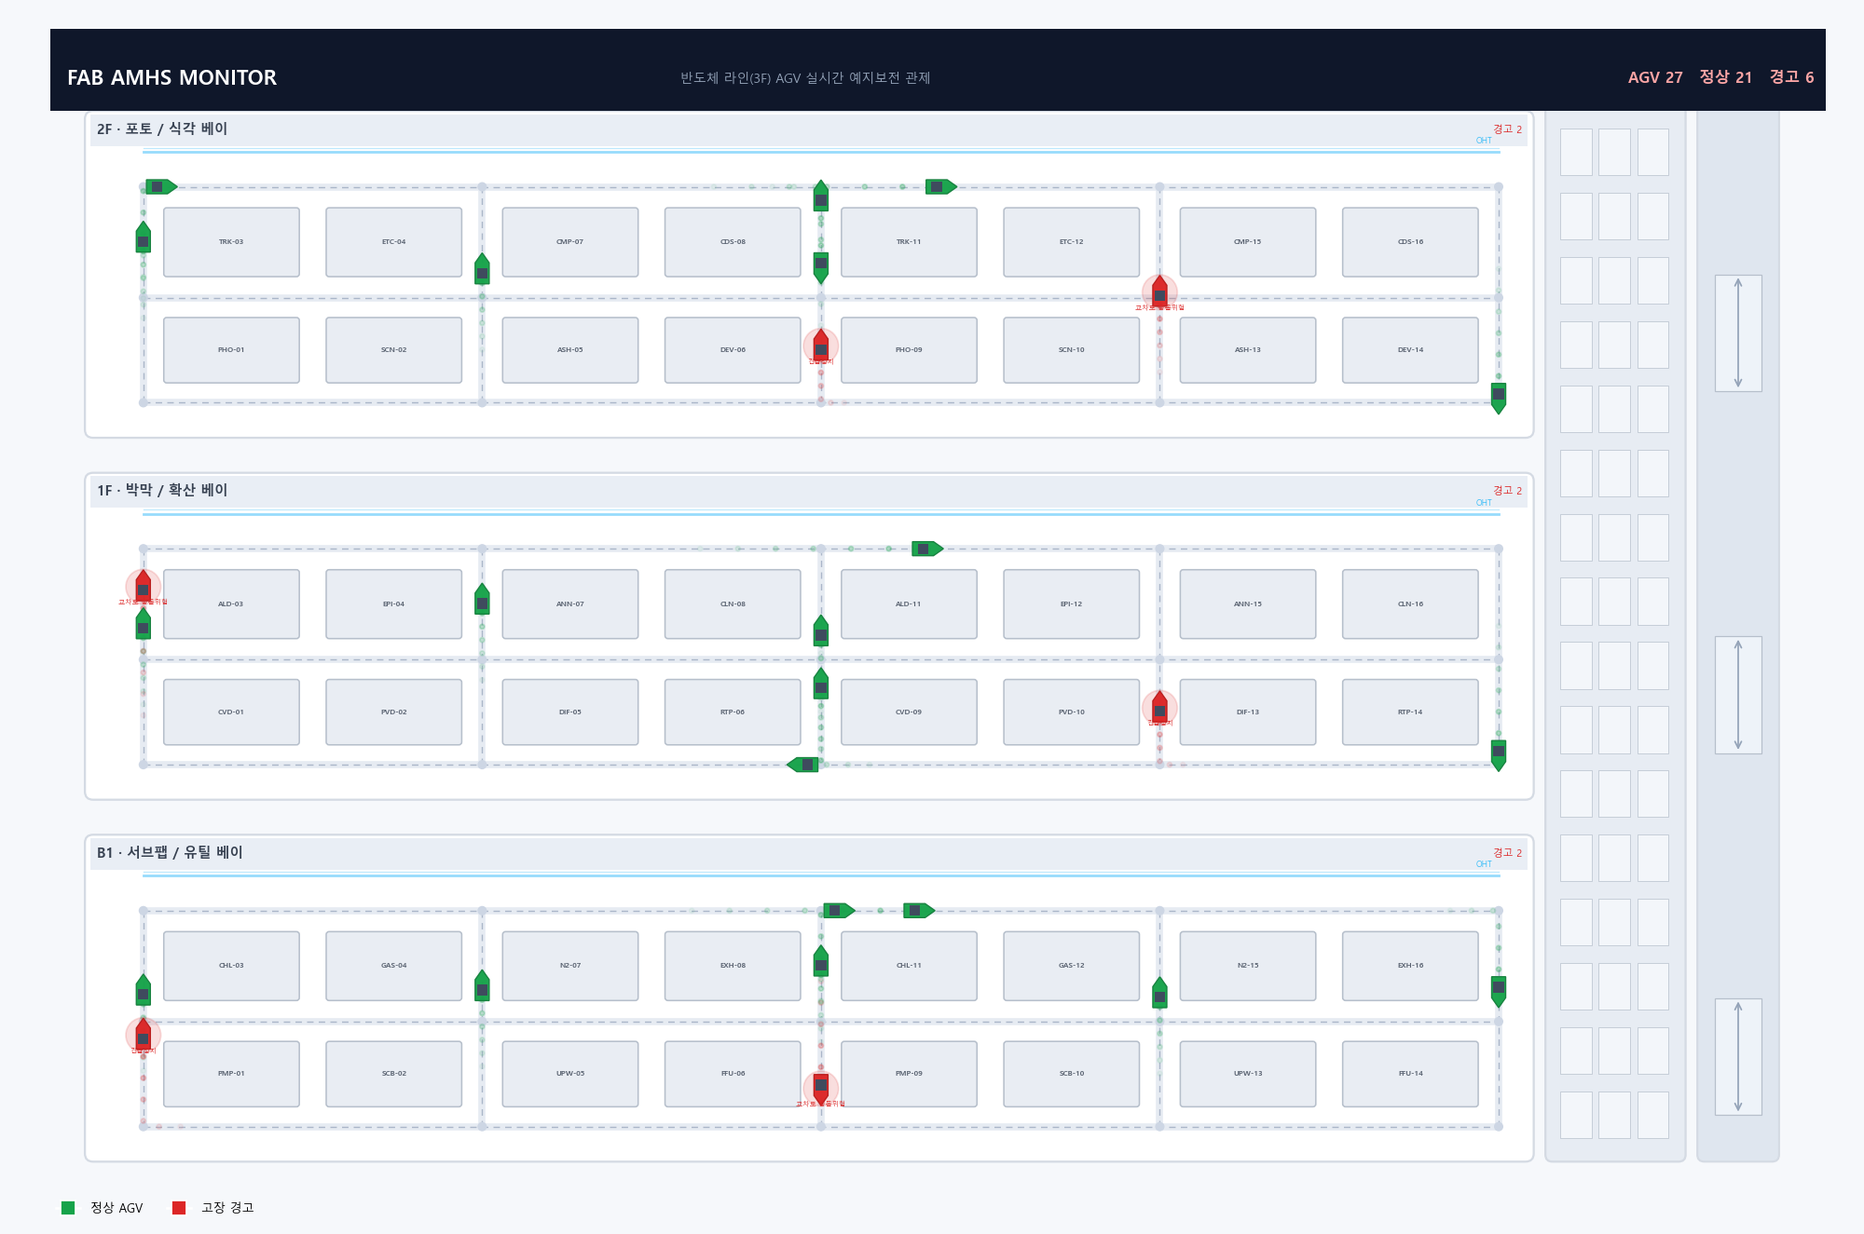
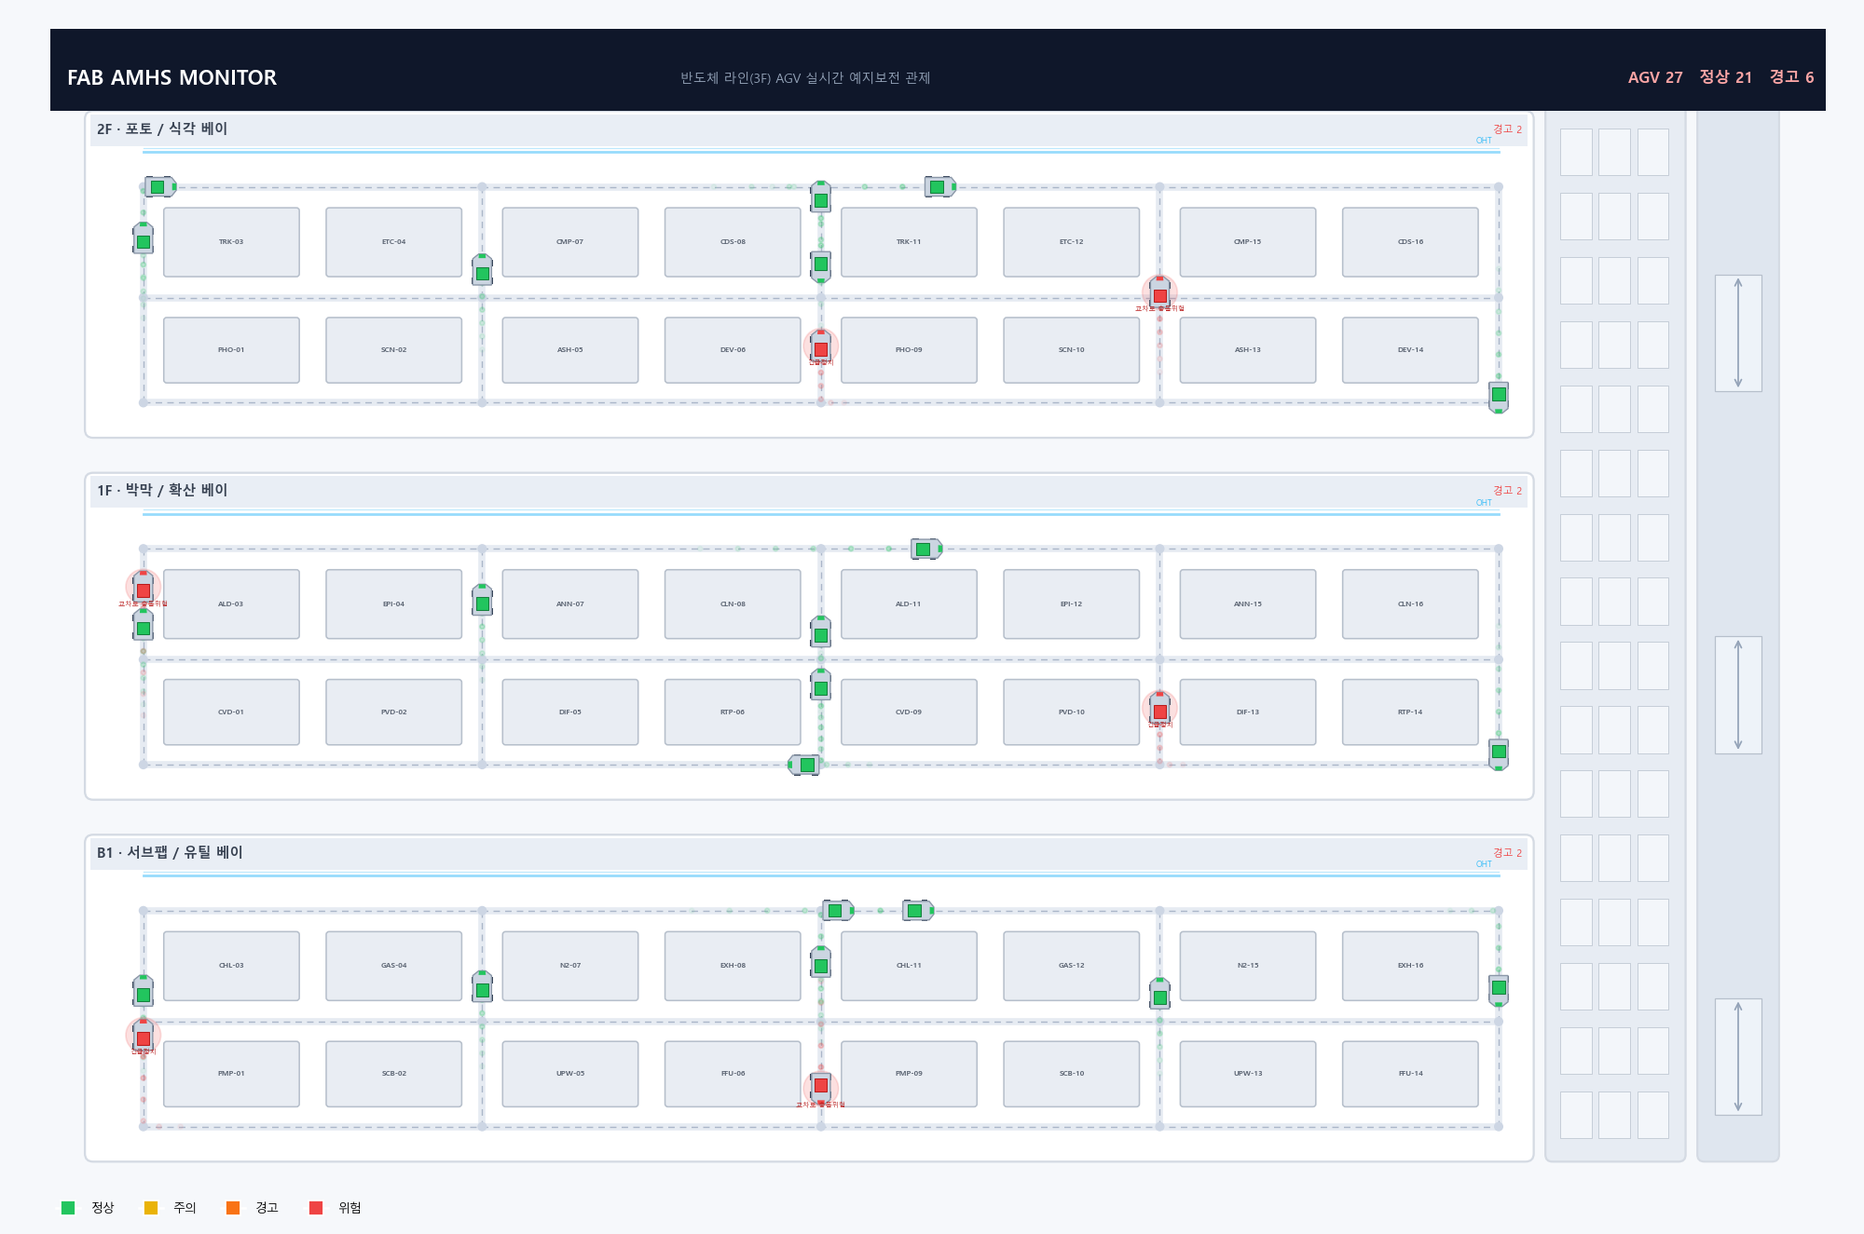
viz: 실제 AGV 로봇·실제 팹 형상으로 3D/2D 리얼리즘 완성
- 3D AGV: 화살표 콘 → 무인반송차 형상(대차+바퀴4+반투명 FOUP 포드
  +전방 진행등+상태 경광등). 섀시는 금속 회색, 상태색은 경광등/포드에
- 3D 설비: 와이어프레임 → 솔리드 팹 장비(플린스 받침+베이별 색 변주
  +상단 EFEM/팬필터 유닛+로드포트)
- 3D 트랙: 얇은 선 → 바닥 페인트 주행 레인+중앙 가이드라인
- 2D 도면(make_floorplan): 오각형 카트 → 탑다운 실제 AGV 글리프
  +conf 기반 4단계 심각도 색(3D와 동일 컨셉), 범례 4단계 통일
- README 3D GIF·2D PNG/GIF 전부 재생성, 테스트 14종 통과

diff --git a/src/static/twin.html b/src/static/twin.html
@@ -235,31 +235,43 @@ function buildLayout(L) {
       new THREE.MeshStandardMaterial({ color:0x141d36, transparent:true, opacity:0.92, roughness:0.9 }));
     slab.position.set(((x0+x1)/2 - CX)*S, ey, ((zA+zC)/2 - fl.y0 - CZ_OFF)*S);
     scene.add(slab);
-    // tools (equipment) — 설비별 높이 변주 + 로드포트(FOUP) 디테일
+    // 공정 설비 — 베이스 플린스 + 본체(베이별 색 변주·높이 변주) + 상단 서비스 유닛 + 로드포트(FOUP)
+    const BAYCOL = [0x2f3c66, 0x323f5c, 0x384166, 0x2c3a58, 0x3a3f60];
     fl.tools.forEach(t => {
-      const th = 9 + (t.label.charCodeAt(t.label.length - 1) % 4) * 1.6;   // 높이 변주(균일 격자 탈피)
-      const m = new THREE.Mesh(
-        new THREE.BoxGeometry(t.w*S, th, t.h*S),
-        new THREE.MeshStandardMaterial({ color:0x33406e, roughness:0.55, metalness:0.28 }));
-      m.position.set(wx(t.cx), ey + th/2 + 0.9, wz(t.cy, fl.y0));
-      scene.add(m);
+      const th = 9 + (t.label.charCodeAt(t.label.length - 1) % 4) * 1.8;    // 높이 변주(균일 격자 탈피)
+      const bc = BAYCOL[t.label.charCodeAt(0) % BAYCOL.length];             // 베이별 색 변주
+      const cx3 = wx(t.cx), cz3 = wz(t.cy, fl.y0);
+      const base = new THREE.Mesh(new THREE.BoxGeometry(t.w*S+2, 1.6, t.h*S+2),  // 바닥 받침
+        new THREE.MeshStandardMaterial({ color:0x1b2440, roughness:0.9 }));
+      base.position.set(cx3, ey + 1.3, cz3); scene.add(base);
+      const m = new THREE.Mesh(new THREE.BoxGeometry(t.w*S, th, t.h*S),          // 본체
+        new THREE.MeshStandardMaterial({ color:bc, roughness:0.5, metalness:0.32 }));
+      m.position.set(cx3, ey + th/2 + 1.6, cz3); scene.add(m);
       const edge = new THREE.LineSegments(new THREE.EdgesGeometry(m.geometry),
         new THREE.LineBasicMaterial({ color:0x5a6ea8 }));
       edge.position.copy(m.position); scene.add(edge);
-      // 로드포트: 설비 앞면(관람자 방향) 작은 큐브 2개
-      for (const s of [-0.26, 0.26]) {
-        const lp = new THREE.Mesh(new THREE.BoxGeometry(Math.max(t.w*S*0.16, 2), 2.4, 2.2),
-          new THREE.MeshStandardMaterial({ color:0x4a5a8e, roughness:0.5 }));
-        lp.position.set(wx(t.cx) + t.w*S*s, ey + 2.1, wz(t.cy, fl.y0) - t.h*S*0.5 - 1.1);
+      const top = new THREE.Mesh(new THREE.BoxGeometry(t.w*S*0.5, 3, t.h*S*0.5), // 상단 유닛(EFEM/팬필터)
+        new THREE.MeshStandardMaterial({ color:0x46557f, roughness:0.6, metalness:0.2 }));
+      top.position.set(cx3, ey + th + 1.6 + 1.5, cz3); scene.add(top);
+      for (const s of [-0.26, 0.26]) {                                          // 로드포트(FOUP) 앞면 큐브 2개
+        const lp = new THREE.Mesh(new THREE.BoxGeometry(Math.max(t.w*S*0.16, 2), 2.6, 2.2),
+          new THREE.MeshStandardMaterial({ color:0x59699c, roughness:0.45, metalness:0.15 }));
+        lp.position.set(cx3 + t.w*S*s, ey + 2.9, cz3 - t.h*S*0.5 - 1.1);
         scene.add(lp);
       }
     });
-    // tracks
+    // AGV 주행 레인(바닥 페인트 라인) + 중앙 가이드라인
     fl.tracks.forEach(([ax,ay,bx,by]) => {
+      const x1=wx(ax), z1=wz(ay,fl.y0), x2=wx(bx), z2=wz(by,fl.y0);
+      const len=Math.hypot(x2-x1, z2-z1); if (len < 0.5) return;
+      const lane = new THREE.Mesh(new THREE.BoxGeometry(len, 0.3, 2.6),
+        new THREE.MeshStandardMaterial({ color:0x28406e, roughness:0.85, emissive:0x0a1830, emissiveIntensity:0.3 }));
+      lane.position.set((x1+x2)/2, ey+0.8, (z1+z2)/2);
+      lane.rotation.y = -Math.atan2(z2-z1, x2-x1);
+      scene.add(lane);
       const g = new THREE.BufferGeometry().setFromPoints([
-        new THREE.Vector3(wx(ax), ey+0.9, wz(ay, fl.y0)),
-        new THREE.Vector3(wx(bx), ey+0.9, wz(by, fl.y0))]);
-      scene.add(new THREE.Line(g, new THREE.LineBasicMaterial({ color:0x2a3a66 })));
+        new THREE.Vector3(x1, ey+1.0, z1), new THREE.Vector3(x2, ey+1.0, z2)]);
+      scene.add(new THREE.Line(g, new THREE.LineBasicMaterial({ color:0x5f7ec2 })));
     });
     // OHT 오버헤드 레일(천장 반송)
     (fl.oht || []).forEach(([ax, ay, bx, by]) => {
@@ -319,21 +331,42 @@ function makeLabel(text, x, y, z) {
   return sp;
 }
 
+// 실제 팹 AGV(무인반송차) 형상: 하부 대차 + 바퀴 4 + 상단 FOUP 포드 + 상태 경광등(안돈)
 function agvFor(a) {
   if (agvMesh[a.id]) return agvMesh[a.id];
-  const body = new THREE.Mesh(new THREE.ConeGeometry(3.4, 9, 5),
-    new THREE.MeshStandardMaterial({ color:OK.clone(), emissive:0x000000 }));
-  body.rotation.x = Math.PI/2;          // point along +Z, we rotate group by heading
-  const ring = new THREE.Mesh(new THREE.TorusGeometry(6.5, 0.7, 8, 28),
+  const grp = new THREE.Group();
+  const steel = new THREE.MeshStandardMaterial({ color:0xc3ccdf, roughness:0.5, metalness:0.35 });
+  const dark  = new THREE.MeshStandardMaterial({ color:0x252d45, roughness:0.75, metalness:0.2 });
+  const skirt = new THREE.Mesh(new THREE.BoxGeometry(7.6, 1.6, 10.6), dark);   // 하부 대차
+  skirt.position.y = 1.0; grp.add(skirt);
+  const chassis = new THREE.Mesh(new THREE.BoxGeometry(7.0, 2.6, 9.8), steel); // 본체 섀시
+  chassis.position.y = 3.0; grp.add(chassis);
+  const wheelGeo = new THREE.CylinderGeometry(1.1, 1.1, 0.9, 14);              // 바퀴 4개
+  const wheelMat = new THREE.MeshStandardMaterial({ color:0x0e121c, roughness:0.9 });
+  for (const sx of [-3.5, 3.5]) for (const sz of [-3.2, 3.2]) {
+    const w = new THREE.Mesh(wheelGeo, wheelMat);
+    w.rotation.z = Math.PI/2; w.position.set(sx, 1.05, sz); grp.add(w);
+  }
+  const foup = new THREE.Mesh(new THREE.BoxGeometry(5.6, 4.4, 5.6),           // 상단 반송 FOUP 포드
+    new THREE.MeshStandardMaterial({ color:0x9fb3d6, roughness:0.3, metalness:0.15, transparent:true, opacity:0.92 }));
+  foup.position.y = 6.6; grp.add(foup);
+  const lid = new THREE.Mesh(new THREE.BoxGeometry(5.8, 0.8, 5.8), dark);      // 포드 상단 커버
+  lid.position.y = 9.2; grp.add(lid);
+  const head = new THREE.Mesh(new THREE.BoxGeometry(4.2, 0.9, 0.7),           // 전방 진행등(+Z가 앞)
+    new THREE.MeshStandardMaterial({ color:0x22c55e, emissive:0x22c55e, emissiveIntensity:0.5 }));
+  head.position.set(0, 3.2, 5.0); grp.add(head);
+  const beacon = new THREE.Mesh(new THREE.CylinderGeometry(0.95, 0.95, 2.6, 14),  // 상단 상태 경광등(안돈)
+    new THREE.MeshStandardMaterial({ color:0x22c55e, emissive:0x22c55e, emissiveIntensity:0.7, transparent:true, opacity:0.95 }));
+  beacon.position.y = 10.8; grp.add(beacon);
+  const ring = new THREE.Mesh(new THREE.TorusGeometry(6.8, 0.7, 8, 30),       // 바닥 경고 헤일로
     new THREE.MeshBasicMaterial({ color:0xff3b3b, transparent:true, opacity:0.9 }));
-  ring.rotation.x = Math.PI/2; ring.position.y = -4.5; ring.visible = false;
-  const beam = new THREE.Mesh(new THREE.CylinderGeometry(0.5, 0.5, 70, 8),
-    new THREE.MeshBasicMaterial({ color:0xff5a5a, transparent:true, opacity:0.26 }));
-  beam.position.y = 33; beam.visible = false;
-  const grp = new THREE.Group(); grp.add(body); grp.add(ring); grp.add(beam);
+  ring.rotation.x = Math.PI/2; ring.position.y = 0.5; ring.visible = false; grp.add(ring);
+  const beam = new THREE.Mesh(new THREE.CylinderGeometry(0.5, 0.5, 70, 8),    // 층 관통 경고 빔
+    new THREE.MeshBasicMaterial({ color:0xff5a5a, transparent:true, opacity:0.24 }));
+  beam.position.y = 36; beam.visible = false; grp.add(beam);
   grp.userData = { agv:true, id:a.id };
   agvGroup.add(grp);
-  const rec = { mesh:grp, body, ring, beam, target:{x:0,y:0,z:0,ang:0} };
+  const rec = { mesh:grp, beacon, head, foup, ring, beam, target:{x:0,y:0,z:0,ang:0} };
   agvMesh[a.id] = rec; return rec;
 }
 
@@ -359,13 +392,19 @@ function applyState(st) {
     seen.add(a.id);
     const rec = agvFor(a);
     const y0 = FLOOR_Y0[a.floor] ?? 0;
-    rec.target = { x: wx(a.x), y: floorY(a.floor) + 6, z: wz(a.y, y0), ang: a.ang };
+    rec.target = { x: wx(a.x), y: floorY(a.floor) + 1.3, z: wz(a.y, y0), ang: a.ang };
     rec.data = a;
     const warn = a.status === 'warn';
     const hex = warn ? (LVLCOL[a.level] ?? 0xef4444) : 0x22c55e;    // 심각도별 색
-    rec.body.material.color.setHex(hex);
-    rec.body.material.emissive.setHex(warn ? hex : 0x000000);
-    rec.body.material.emissiveIntensity = warn ? 0.75 : 0;
+    // 섀시는 항상 금속 회색(실제 로봇) — 상태색은 경광등·진행등·(원거리 식별용) FOUP 틴트에
+    rec.beacon.material.color.setHex(hex);
+    rec.beacon.material.emissive.setHex(hex);
+    rec.beacon.material.emissiveIntensity = warn ? 0.95 : 0.55;
+    rec.head.material.color.setHex(hex);
+    rec.head.material.emissive.setHex(hex);
+    rec.foup.material.color.setHex(warn ? hex : 0x9fb3d6);
+    rec.foup.material.emissive.setHex(warn ? hex : 0x000000);
+    rec.foup.material.emissiveIntensity = warn ? 0.28 : 0;
     // 링·빔(층 관통 경고)은 심각(경고·위험)만 — 주의는 색만 → '빨강 벽' 방지
     const severe = a.level === '경고' || a.level === '위험';
     rec.ring.visible = severe; rec.beam.visible = severe;
@@ -518,10 +557,10 @@ function animate() {
     const r = agvMesh[id], t = r.target, p = r.mesh.position;
     p.x += (t.x - p.x) * k; p.y += (t.y - p.y) * k; p.z += (t.z - p.z) * k;
     r.mesh.rotation.y = -t.ang * Math.PI/180;
-    if (r.ring.visible) {                          // 이상 설비 하이라이트 맥동
+    if (r.ring.visible) {                          // 이상 설비 하이라이트 맥동(경광등 점멸)
       r.ring.scale.setScalar(1 + pulse * 0.5);
       r.ring.material.opacity = 0.35 + pulse * 0.6;
-      r.body.material.emissiveIntensity = 0.5 + pulse * 0.9;
+      r.beacon.material.emissiveIntensity = 0.6 + pulse * 0.9;
     }
   }
   if (focus) {                                     // 최우선 경고로 카메라 자동 이동

diff --git a/src/make_floorplan.py b/src/make_floorplan.py
@@ -26,14 +26,25 @@ DATA, ASSETS = "../data/processed", "../assets"
 PAGE, PANEL, PHEAD, PEC = "#f6f8fb", "#ffffff", "#e9eef5", "#d4dae3"
 TOOL_FC, TOOL_EC, TLAB = "#e9edf3", "#b6bfcb", "#5b6472"
 TRKBAND, RAIL, OHT = "#e6ebf2", "#aab6c9", "#7dd3fc"
-GREEN, GREEN_E, RED, RED_E, FOUP = "#16a34a", "#15803d", "#dc2626", "#b91c1c", "#3f4b5e"
 HEAD_BG = "#0f172a"
+# AGV 섀시(금속 회색) — 상태색은 FOUP 포드·진행등·헤일로에 (3D 트윈과 동일 컨셉)
+STEEL_FC, STEEL_EC, WHEEL = "#cbd5e1", "#8b97a8", "#334155"
+# 진단 신뢰도(conf) 기반 4단계 심각도 색 (realtime_server.alert_level 과 동일 경계)
+LV = {"정상": ("#22c55e", "#15803d"), "주의": ("#eab308", "#a16207"),
+      "경고": ("#f97316", "#c2410c"), "위험": ("#ef4444", "#b91c1c")}
 KOR = {"E-ENV-C": "교차로 충돌위험", "E-ENV-O": "경로 장애물", "E-INF-A": "도어 연동",
        "E-INF-E": "층간리프트 연동", "E-RBT-B": "배터리 저하", "E-RBT-E": "긴급정지",
        "E-RBT-N": "통신 끊김", "E-RBT-S": "센서 이상", "정상": "정상"}
 W, H = FL.CANVAS["w"], FL.CANVAS["h"]
-CART = [(-2.4, -1.2), (1.2, -1.2), (2.9, 0), (1.2, 1.2), (-2.4, 1.2)]
-FBOX = [(-1.5, -0.9), (0.3, -0.9), (0.3, 0.9), (-1.5, 0.9)]
+# 탑다운 실제 AGV 형상(+x = 진행방향): 섀시 + 바퀴 4 + 중앙 FOUP 포드 + 전방 진행등
+BODY = [(-2.6, -1.6), (1.9, -1.6), (2.7, -0.6), (2.7, 0.6), (1.9, 1.6), (-2.6, 1.6)]
+POD = [(-1.7, -1.05), (0.5, -1.05), (0.5, 1.05), (-1.7, 1.05)]
+NOSE = [(2.0, -0.62), (2.7, -0.55), (2.7, 0.55), (2.0, 0.62)]
+WHEELS = [(-1.9, 1.55), (1.1, 1.55), (-1.9, -1.55), (1.1, -1.55)]
+
+
+def level(conf):   # 신뢰도 → 심각도 등급 (고장 예측 AGV에만 적용)
+    return "위험" if conf >= 0.85 else "경고" if conf >= 0.60 else "주의"
 
 
 def rot(pts, ang, cx, cy):
@@ -89,9 +100,13 @@ def draw_fab(ax, layout):
         sp.set_visible(False)
 
 
-def draw_agv(ax, x, y, ang, col, ec):
-    ax.add_patch(Polygon(rot(CART, ang, x, y), closed=True, fc=col, ec=ec, lw=0.8, alpha=0.97, zorder=5))
-    ax.add_patch(Polygon(rot(FBOX, ang, x, y), closed=True, fc=FOUP, ec="none", zorder=5.2))
+def draw_agv(ax, x, y, ang, pod_fc, pod_ec, nose_fc):
+    for wxx, wyy in WHEELS:                       # 바퀴 4개(진한 회색)
+        w = [(wxx - 0.55, wyy - 0.28), (wxx + 0.55, wyy - 0.28), (wxx + 0.55, wyy + 0.28), (wxx - 0.55, wyy + 0.28)]
+        ax.add_patch(Polygon(rot(w, ang, x, y), closed=True, fc=WHEEL, ec="none", zorder=4.9))
+    ax.add_patch(Polygon(rot(BODY, ang, x, y), closed=True, fc=STEEL_FC, ec=STEEL_EC, lw=0.8, zorder=5))    # 섀시
+    ax.add_patch(Polygon(rot(POD, ang, x, y), closed=True, fc=pod_fc, ec=pod_ec, lw=0.6, zorder=5.2))       # FOUP 포드(상태색)
+    ax.add_patch(Polygon(rot(NOSE, ang, x, y), closed=True, fc=nose_fc, ec="none", zorder=5.3))             # 전방 진행등
 
 
 def main():
@@ -102,30 +117,34 @@ def main():
         gg = rep[rep.robot == rid].sort_values("seq").reset_index(drop=True)
         px, py = gg.px.to_numpy(), gg.py.to_numpy()
         step = np.r_[0, np.cumsum(np.hypot(np.diff(px), np.diff(py)))]
-        traj[rid] = dict(prog=step / (step[-1] + 1e-9), pred=gg["pred"].to_numpy(), n=len(gg))
+        traj[rid] = dict(prog=step / (step[-1] + 1e-9), pred=gg["pred"].to_numpy(),
+                         conf=gg["conf"].to_numpy(), n=len(gg))
     layout = FL.build_layout(); plan = FL.build_agv_plan(robots)
 
     def sample(a, p):
         t = traj[a["robot"]]; i = int(p * (t["n"] - 1))
         s = (t["prog"][i] + a["phase"]) % 1.0
         x, y, ang = a["route"].at(s)
-        return x, y, np.deg2rad(ang), s, t["pred"][i]
+        return x, y, np.deg2rad(ang), s, t["pred"][i], t["conf"][i]
 
     def render(ax, p):
         draw_fab(ax, layout)
         per = [0, 0, 0]; tot = 0
         for a in plan:
-            x, y, ang, s, pred = sample(a, p)
-            err = pred != "정상"; col = RED if err else GREEN; ec = RED_E if err else GREEN_E
+            x, y, ang, s, pred, conf = sample(a, p)
+            err = pred != "정상"
+            lvl = level(conf) if err else "정상"       # 심각도 등급(정상/주의/경고/위험)
+            fc, ec = LV[lvl]
+            severe = lvl in ("경고", "위험")             # 헤일로·라벨은 심각한 것만 → '빨강 벽' 방지
             per[a["floor"]] += int(err); tot += int(err)
             for b in range(6, 0, -1):
                 xb, yb, _ = a["route"].at(s - b * 0.012)
-                ax.add_patch(Circle((xb, yb), 0.4, color=col, alpha=0.05 + 0.28 * (6 - b) / 6, zorder=4))
-            if err:
-                ax.add_patch(Circle((x, y), 3.0, color=RED, alpha=0.15, zorder=4.5))
-            draw_agv(ax, x, y, ang, col, ec)
-            if err:
-                ax.text(x, y - 3.0, KOR.get(pred, pred), fontsize=4.2, color=RED, ha="center", zorder=6)
+                ax.add_patch(Circle((xb, yb), 0.4, color=fc, alpha=0.05 + 0.28 * (6 - b) / 6, zorder=4))
+            if severe:
+                ax.add_patch(Circle((x, y), 3.0, color=fc, alpha=0.16, zorder=4.5))
+            draw_agv(ax, x, y, ang, fc, ec, fc)
+            if severe:
+                ax.text(x, y - 3.2, KOR.get(pred, pred), fontsize=4.2, color=ec, ha="center", zorder=6)
         ax.text(3, H - 4.5, "FAB AMHS MONITOR", fontsize=12.5, weight="bold", color="white", va="center", zorder=9)
         ax.text(108, H - 4.5, "반도체 라인(3F) AGV 실시간 예지보전 관제", fontsize=8, color="#94a3b8", va="center", zorder=9)
         n = len(plan)
@@ -133,10 +152,10 @@ def main():
                 ha="right", color=("#fca5a5" if tot else "#86efac"), va="center", zorder=9)
         for f, w in zip(layout["floors"], per):
             ax.text(FL.PX1, f["geo"]["y0"] + FL.FH - 5.3, f"경고 {w}", fontsize=6.2, ha="right", va="center",
-                    color=(RED if w else "#15803d"), zorder=1.4)
-        ax.legend(handles=[Line2D([0], [0], marker="s", color="w", markerfacecolor=GREEN, label="정상 AGV", markersize=9),
-                           Line2D([0], [0], marker="s", color="w", markerfacecolor=RED, label="고장 경고", markersize=9)],
-                  loc="lower left", bbox_to_anchor=(0.004, -0.015), fontsize=7.5, frameon=False, ncol=2)
+                    color=(LV["위험"][0] if w else "#15803d"), zorder=1.4)
+        ax.legend(handles=[Line2D([0], [0], marker="s", color="w", markerfacecolor=LV[k][0], label=k, markersize=9)
+                           for k in ("정상", "주의", "경고", "위험")],
+                  loc="lower left", bbox_to_anchor=(0.004, -0.015), fontsize=7.5, frameon=False, ncol=4)
         return tot
 
     best = 0.5

diff --git a/DEVLOG.md b/DEVLOG.md
@@ -19,3 +19,4 @@
 | 2026-07-07 | B3 | **설비별 진단 이력 타임라인**: snapshot에 AGV별 최근 12틱 진단 추세(0 정상·1 주의·2 경고·3 위험 코드) 추가 + `diag_code` 헬퍼. twin.html 설비 탭 패널에 색상 셀 타임라인·범례·"최근 N틱 중 이상 M" 요약 렌더. 추세 계약·매핑 테스트 추가(총 13종 통과), 헤드리스 렌더(에러 0) 확인 | 설비 상태 변화 추적(직무 키워드: 관제·이력) |
 | 2026-07-08 | B2 | **이상 추세(드리프트) 조기 감지**: `trend_direction`으로 진단 추세의 앞/뒤 절반 평균을 비교해 악화/개선/안정 판정 → snapshot에 AGV별 `trend_dir` + KPI `deteriorating`(플릿 악화 대수). twin.html: 설비 패널에 방향 배지(📉악화/📈개선), 경고 헤더에 "악화 추세 N대". 방향 판정·집계 계약 테스트 추가(총 14종 통과) | 고장 전 악화 조기 포착(직무 키워드: 예지보전 드리프트) |
 | 2026-07-09 | viz | **관제 시각화 다듬기**: ① AGV 색을 **심각도별(정상 초록·주의 노랑·경고 주황·위험 빨강)**로 — '이상=전부 빨강' 벽 제거, 링·층관통 빔은 경고·위험만 ② AGV별 재생 타임라인 오프셋(`toff`, 황금비 분산)으로 **고장이 한꺼번에 몰리지 않게** ③ 설비 높이 변주 + 로드포트(FOUP) 디테일 + 헤미스피어/필 라이트로 입체감 ④ 범례 4단계화. README 대표 GIF 재생성. 헤드리스 렌더 검증·테스트 14종 통과 | 데모 완성도·현실성(직무 키워드: 관제 UX) |
+| 2026-07-09 | viz | **실물 형상 리얼리즘**: ⑤ 3D AGV를 화살표 콘 → **실제 무인반송차 형상**(하부 대차 + 바퀴 4 + 상단 반투명 FOUP 포드 + 전방 진행등 + 상태 경광등/안돈)으로 재모델링 — 섀시는 금속 회색, 상태색은 경광등·진행등·포드에 ⑥ 설비를 와이어프레임 박스 → **솔리드 팹 장비**(베이스 플린스 + 베이별 색 변주 본체 + 상단 EFEM/팬필터 유닛 + 로드포트) ⑦ 트랙을 얇은 선 → **바닥 페인트 주행 레인 + 중앙 가이드라인** ⑧ 2D 도면(make_floorplan)도 오각형 카트 → **탑다운 실제 AGV 글리프(섀시·바퀴·FOUP 포드·진행등) + conf 기반 4단계 심각도 색** 통일(3D와 동일 컨셉). README 3D GIF·2D PNG/GIF 전부 재생성, 헤드리스 근접 렌더로 로봇 형상 확인·테스트 14종 통과 | 실제 현장·실제 로봇 완성도(직무 키워드: 디지털트윈 리얼리즘) |
